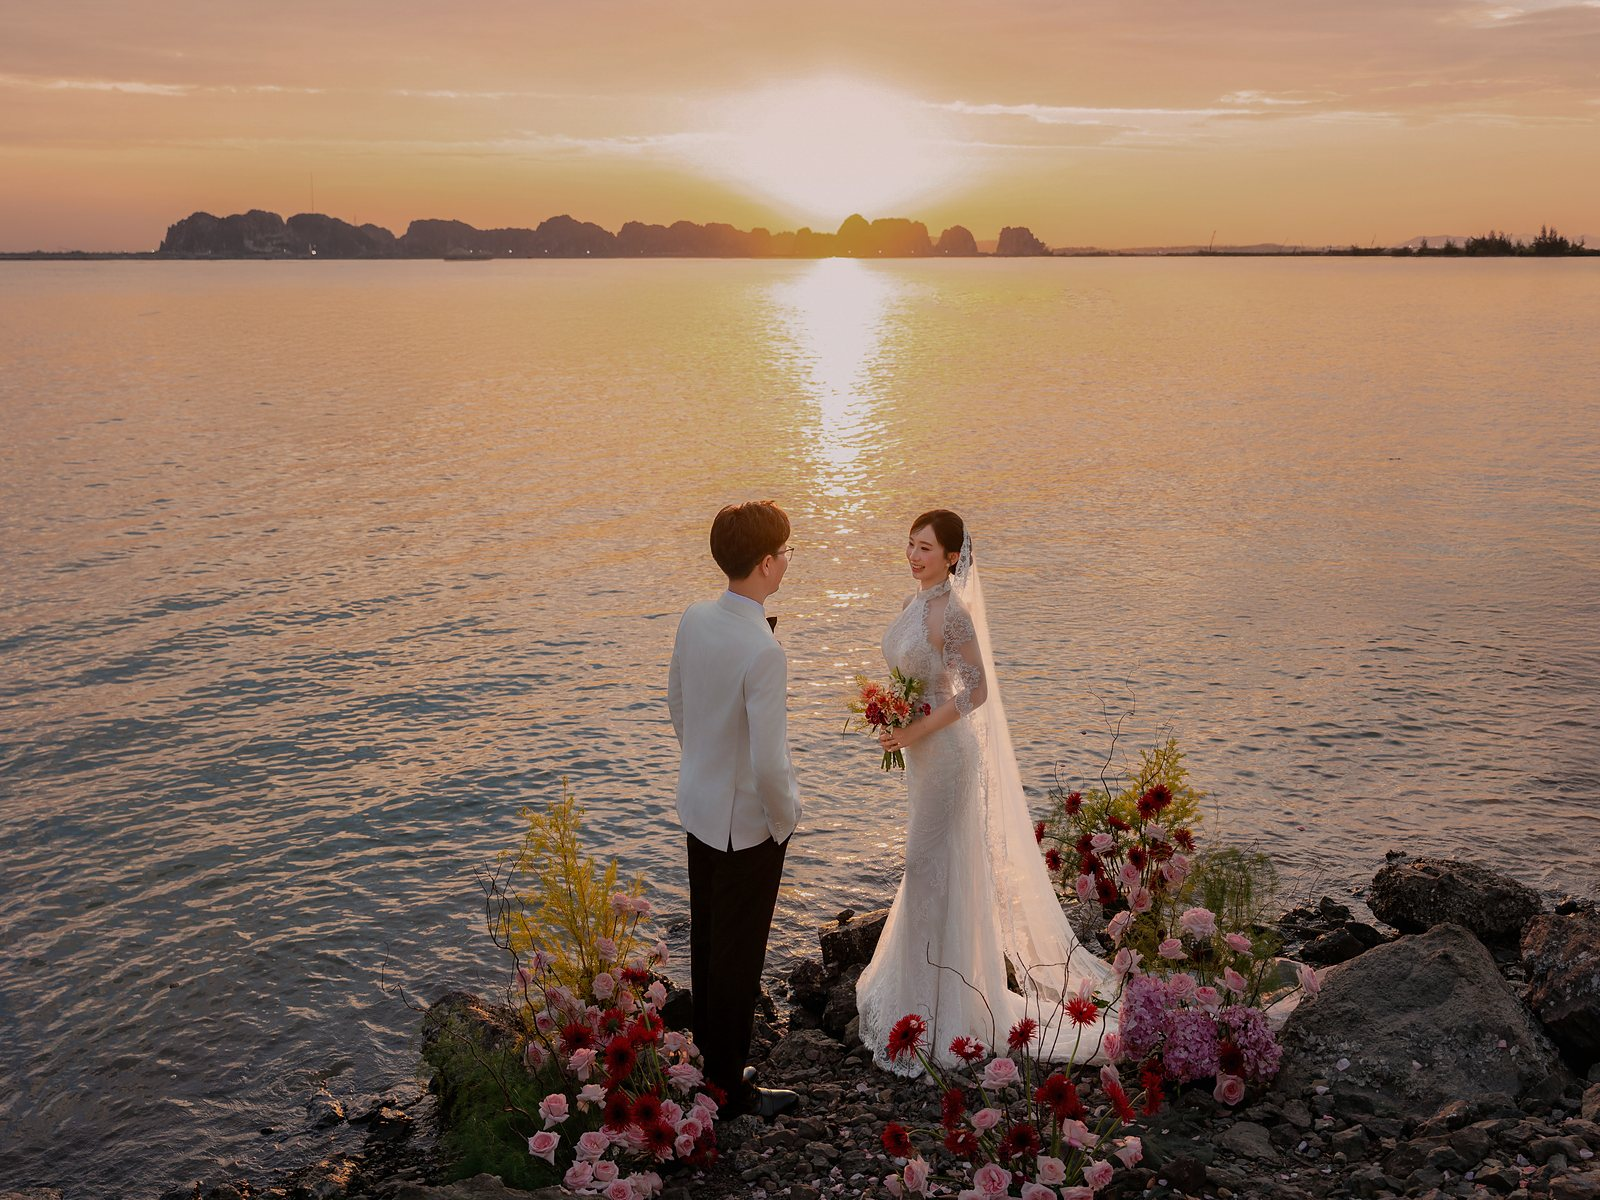
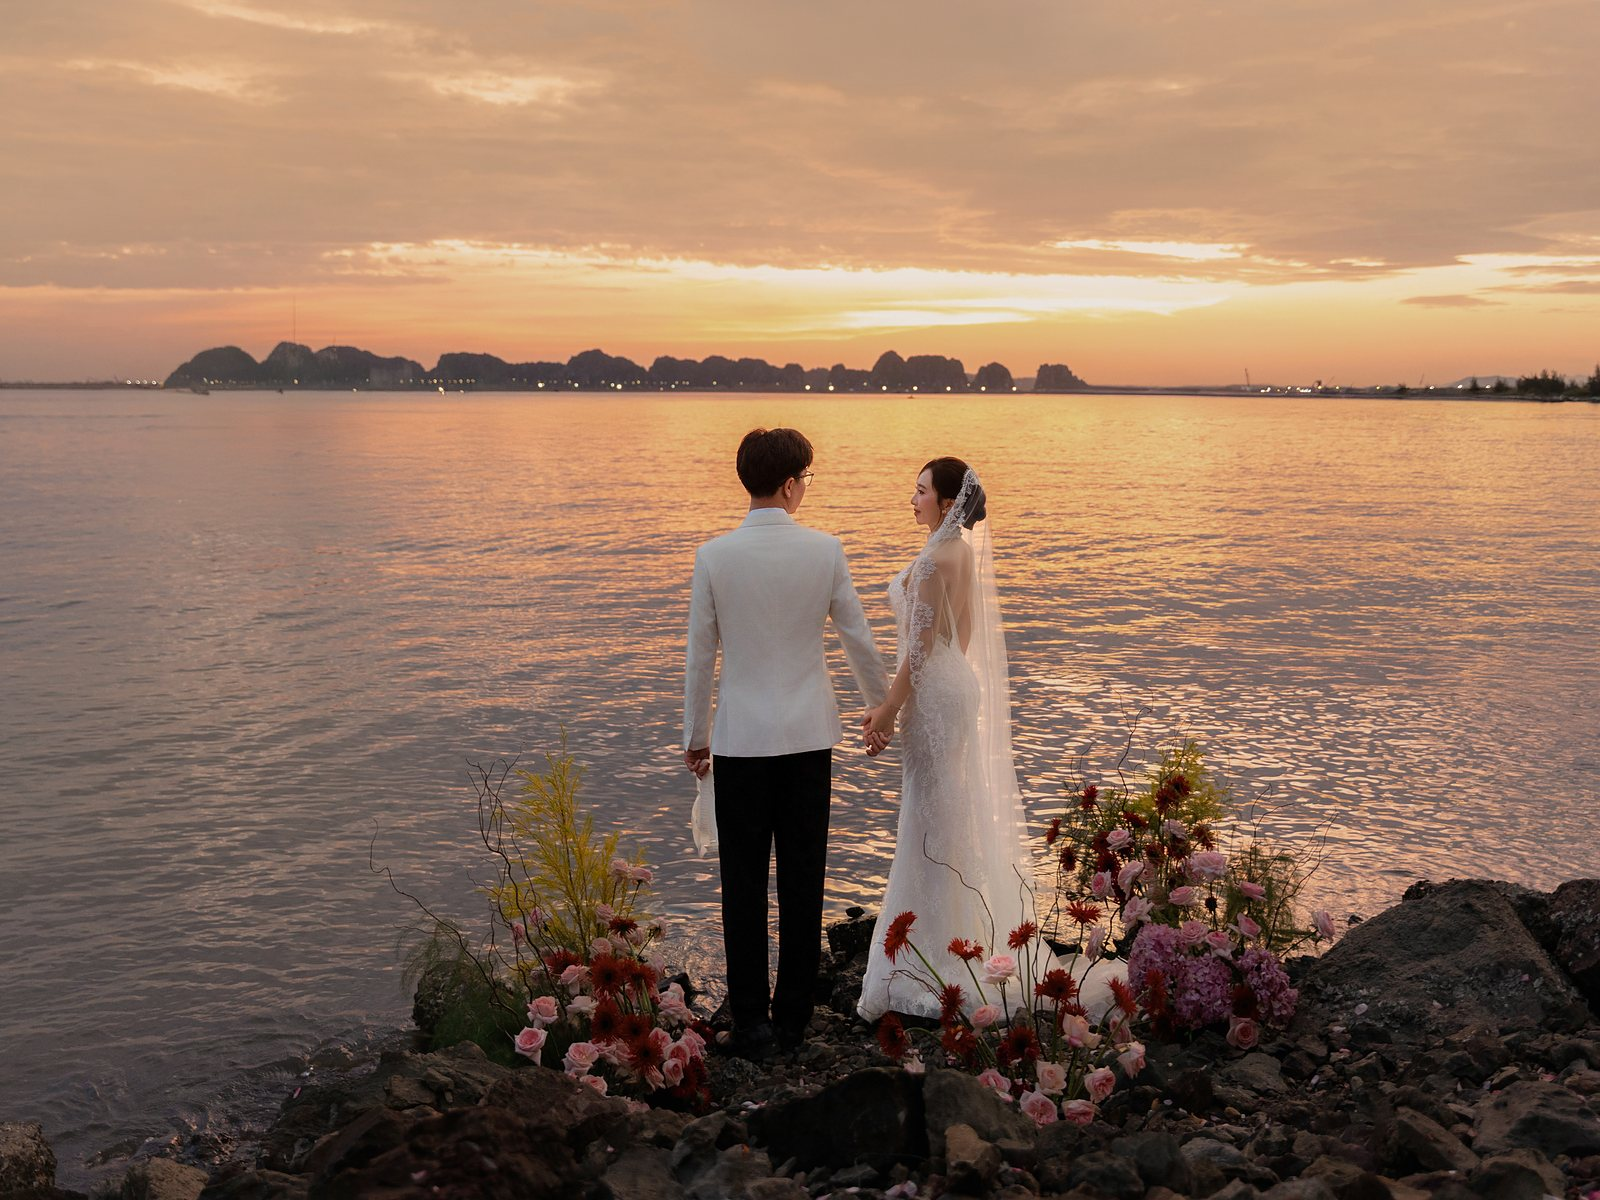
Ô trái FALL IN LOVE về lại LAA05576; thêm ảnh chi tiết IMG_3855 vào mục Timeline

diff --git a/src/components/Timeline.jsx b/src/components/Timeline.jsx
@@ -1,29 +1,37 @@
 import { useInvitation } from '../context'
-import { Icon, Reveal } from './ui'
+import { Icon, Photo, Reveal } from './ui'
 
 export default function Timeline() {
-  const { content } = useInvitation()
+  const { content, images } = useInvitation()
   const { timeline } = content
 
   return (
     <section className="timeline">
-      <div className="container narrow center">
-        <Reveal as="h2" className="script timeline-title" effect="wipe" duration={1500}>
-          {timeline.title}
-        </Reveal>
-        <ul className="timeline-list">
-          {timeline.items.map((t, i) => (
-            <Reveal as="li" key={t.time} className="timeline-item" effect="up" delay={i * 120}>
-              <span className="timeline-icon">
-                <Icon name={t.icon} size={36} />
-              </span>
-              <span className="sans timeline-text">
-                <span>{t.label}</span>
-                <b>{t.time}</b>
-              </span>
-            </Reveal>
-          ))}
-        </ul>
+      <div className={'container mid timeline-grid' + (images.details ? ' has-photo' : '')}>
+        <div className="timeline-main center">
+          <Reveal as="h2" className="script timeline-title" effect="wipe" duration={1500}>
+            {timeline.title}
+          </Reveal>
+          <ul className="timeline-list">
+            {timeline.items.map((t, i) => (
+              <Reveal as="li" key={t.time} className="timeline-item" effect="up" delay={i * 120}>
+                <span className="timeline-icon">
+                  <Icon name={t.icon} size={36} />
+                </span>
+                <span className="sans timeline-text">
+                  <span>{t.label}</span>
+                  <b>{t.time}</b>
+                </span>
+              </Reveal>
+            ))}
+          </ul>
+        </div>
+
+        {images.details && (
+          <Reveal className="timeline-photo" effect="zoom" duration={1400}>
+            <Photo src={images.details} alt="Nhẫn cưới, giày và hoa cưới" />
+          </Reveal>
+        )}
       </div>
     </section>
   )

diff --git a/src/styles/global.css b/src/styles/global.css
@@ -565,6 +565,30 @@ section {
   font-weight: 500;
   font-size: 18px;
 }
+/* Ảnh chi tiết (nhẫn, giày, hoa) — khung viền mảnh màu rượu lệch nhẹ */
+.timeline-photo {
+  position: relative;
+  width: min(78%, 340px);
+  margin: 56px auto 14px;
+}
+.timeline-photo::before {
+  content: '';
+  position: absolute;
+  inset: 0;
+  transform: translate(14px, 14px);
+  border: 1px solid var(--wine);
+  opacity: 0.5;
+  pointer-events: none;
+}
+.timeline-photo img {
+  position: relative;
+  display: block;
+  width: 100%;
+  aspect-ratio: 4 / 5;
+  object-fit: cover;
+  cursor: zoom-in;
+  box-shadow: 0 18px 40px -22px rgba(60, 20, 30, 0.55);
+}
 
 /* =============================================================
    5. DẢI PHIM + ĐẾM NGƯỢC
@@ -1186,6 +1210,15 @@ section {
   /* Dải phim nằm ngang */
   .film-dark { padding: 50px 0 60px; }
   .film-strip { grid-template-columns: 44px 1fr 44px; padding: 0 var(--gutter); }
+  /* Timeline: ảnh chi tiết bên trái, lịch trình bên phải */
+  .timeline-grid.has-photo {
+    display: grid;
+    grid-template-columns: 0.9fr 1.1fr;
+    gap: 70px;
+    align-items: center;
+  }
+  .timeline-grid.has-photo .timeline-photo { order: -1; width: min(100%, 400px); margin: 0 0 0 auto; }
+
   .film-frames { grid-template-columns: repeat(3, 1fr); gap: 10px; }
   .film-frame { aspect-ratio: 4 / 4.6; }
   .countdown { margin-top: 50px; }

diff --git a/src/assets/images/index.js b/src/assets/images/index.js
@@ -15,7 +15,8 @@
  *  love-cutout.webp  Ảnh cặp đôi ĐÃ TÁCH NỀN (PNG trong suốt) — viền trắng
  *                    được tự tạo bằng CSS. Có thể tách nền miễn phí tại
  *                    remove.bg hoặc ứng dụng Ảnh trên iPhone (nhấn giữ chủ thể).
- *  duo-1.jpg         Ảnh ngang trên hàng chữ "FALL IN LOVE WEDDING" thứ hai
+ *  details.jpg       Ảnh chi tiết (nhẫn, giày, hoa) cạnh Timeline (dọc 4:5)
+ *  duo-1.jpg        Ảnh ngang trên hàng chữ "FALL IN LOVE WEDDING" thứ hai
  *  duo-2.jpg         Ảnh ngang dưới hàng chữ đó
  *  calendar.jpg      Ảnh trong khung polaroid có lịch (dọc ~ 4:5)
  *  closing.jpg       Ảnh "SWEET WEDDING INVITATION" (dọc ~ 3:4)
@@ -33,6 +34,7 @@ import film2 from './film-2.jpg'
 import film3 from './film-3.jpg'
 import loveMain from './love-main.jpg'
 import loveCutout from './love-cutout.webp'
+import details from './details.jpg'
 import duo1 from './duo-1.jpg'
 import duo2 from './duo-2.jpg'
 import calendar from './calendar.jpg'
@@ -50,6 +52,7 @@ const images = {
   film: [film1, film2, film3],
   loveMain,
   loveCutout,
+  details,
   duo: [duo1, duo2],
   calendar,
   closing,
